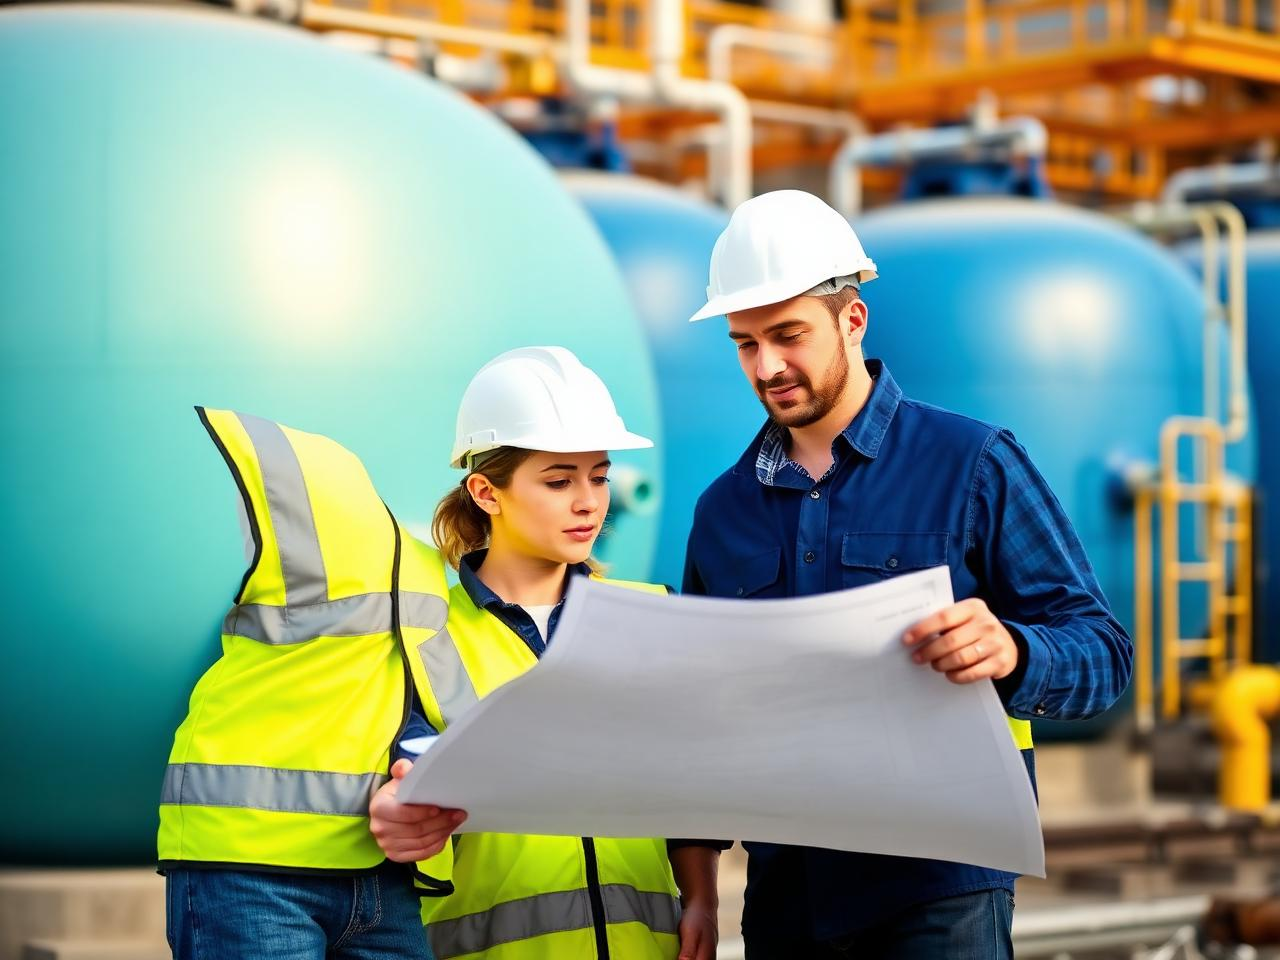
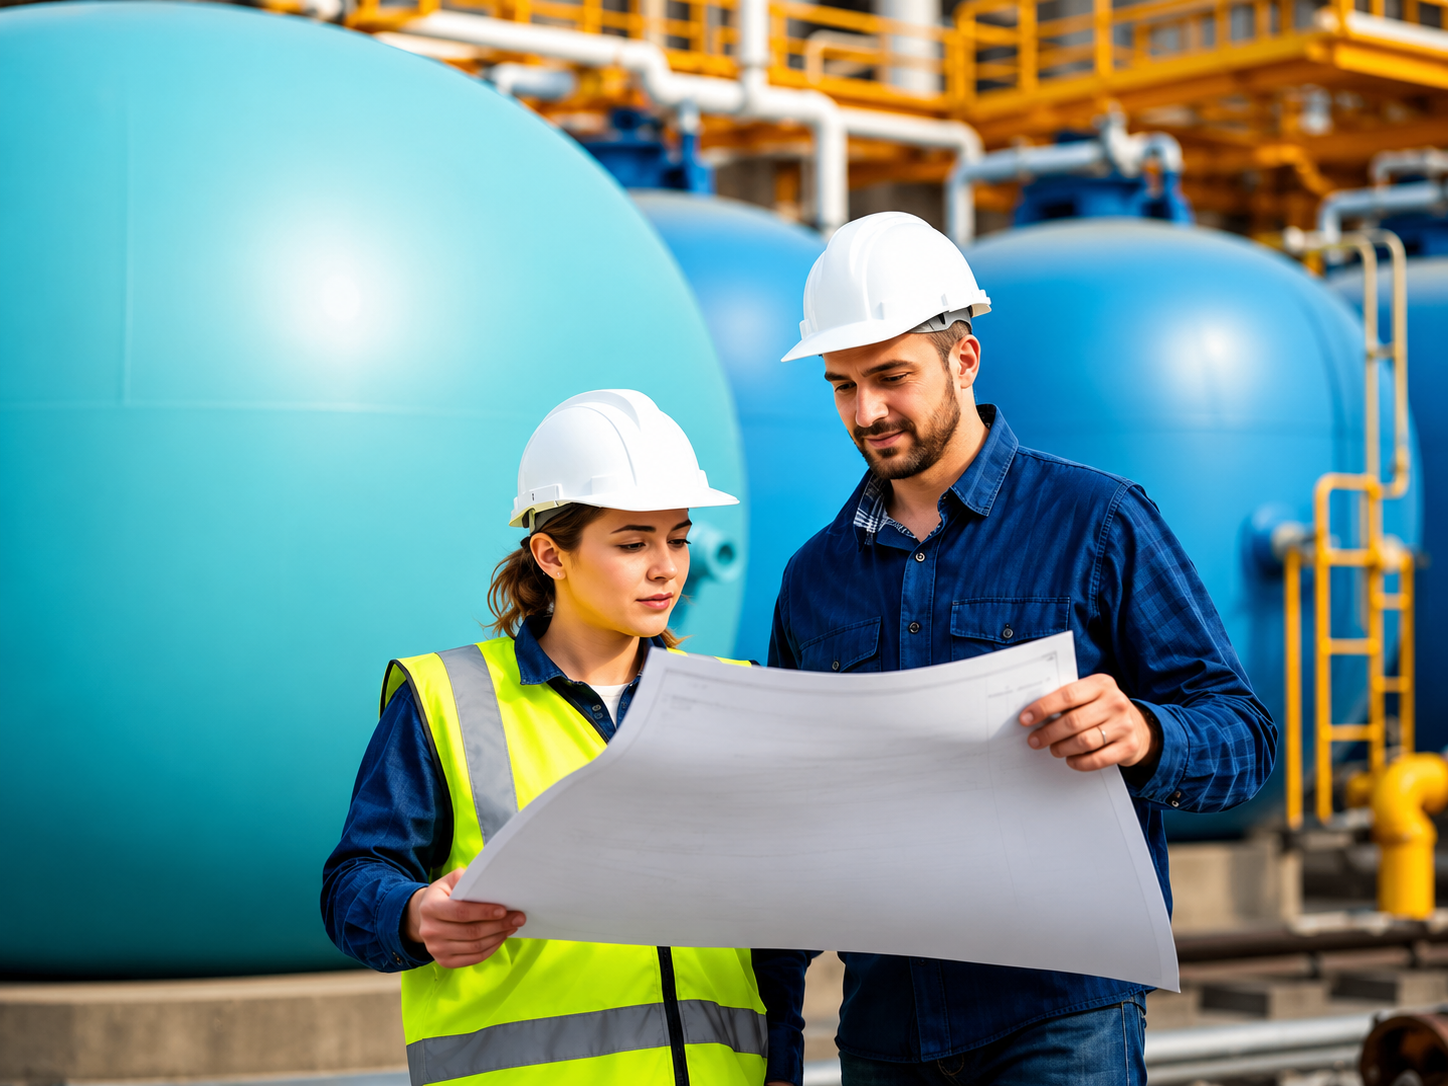
fix_gap

diff --git a/src/layouts/PublicLayout.tsx b/src/layouts/PublicLayout.tsx
@@ -26,7 +26,7 @@ export default function PublicLayout({ children }: PublicLayoutProps) {
 
       <Navbar />
 
-      <main className="min-h-0 flex-1" style={{ paddingTop: "var(--site-header-height)" }}>{children}</main>
+      <main className="min-h-0 flex-1">{children}</main>
 
       <Footer />
 